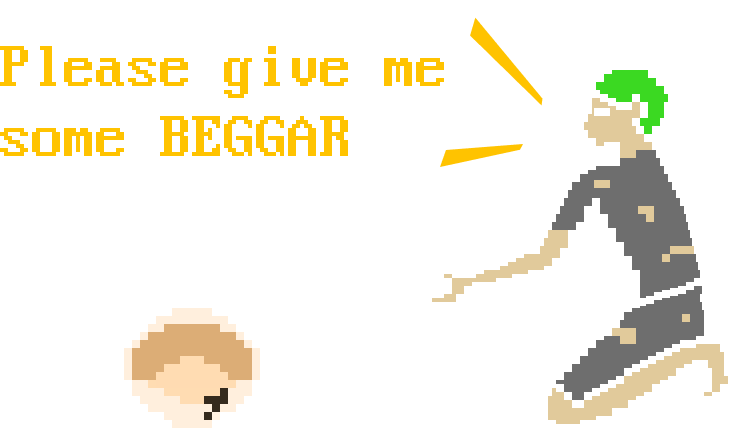
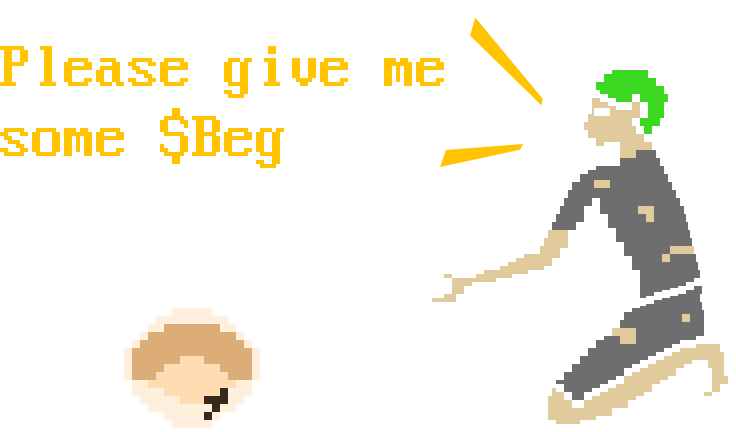
feat: update

Changed region(s): [[0.2812, 0.2708, 0.5, 0.3912], [0.2188, 0.2407, 0.25, 0.3912]]

diff --git a/src/components/Home/BegWap/index.tsx b/src/components/Home/BegWap/index.tsx
@@ -213,7 +213,7 @@ function Index() {
 
   const baggerFields = {
     token: beggarToken,
-    tokenName: "Beggar",
+    tokenName: "$Beg",
     balance: beggarBalance as string,
   };
 

diff --git a/src/config/chains.ts b/src/config/chains.ts
@@ -26,3 +26,5 @@ export const blastSepolia = {
     },
   },
 };
+
+export const blast = {};
